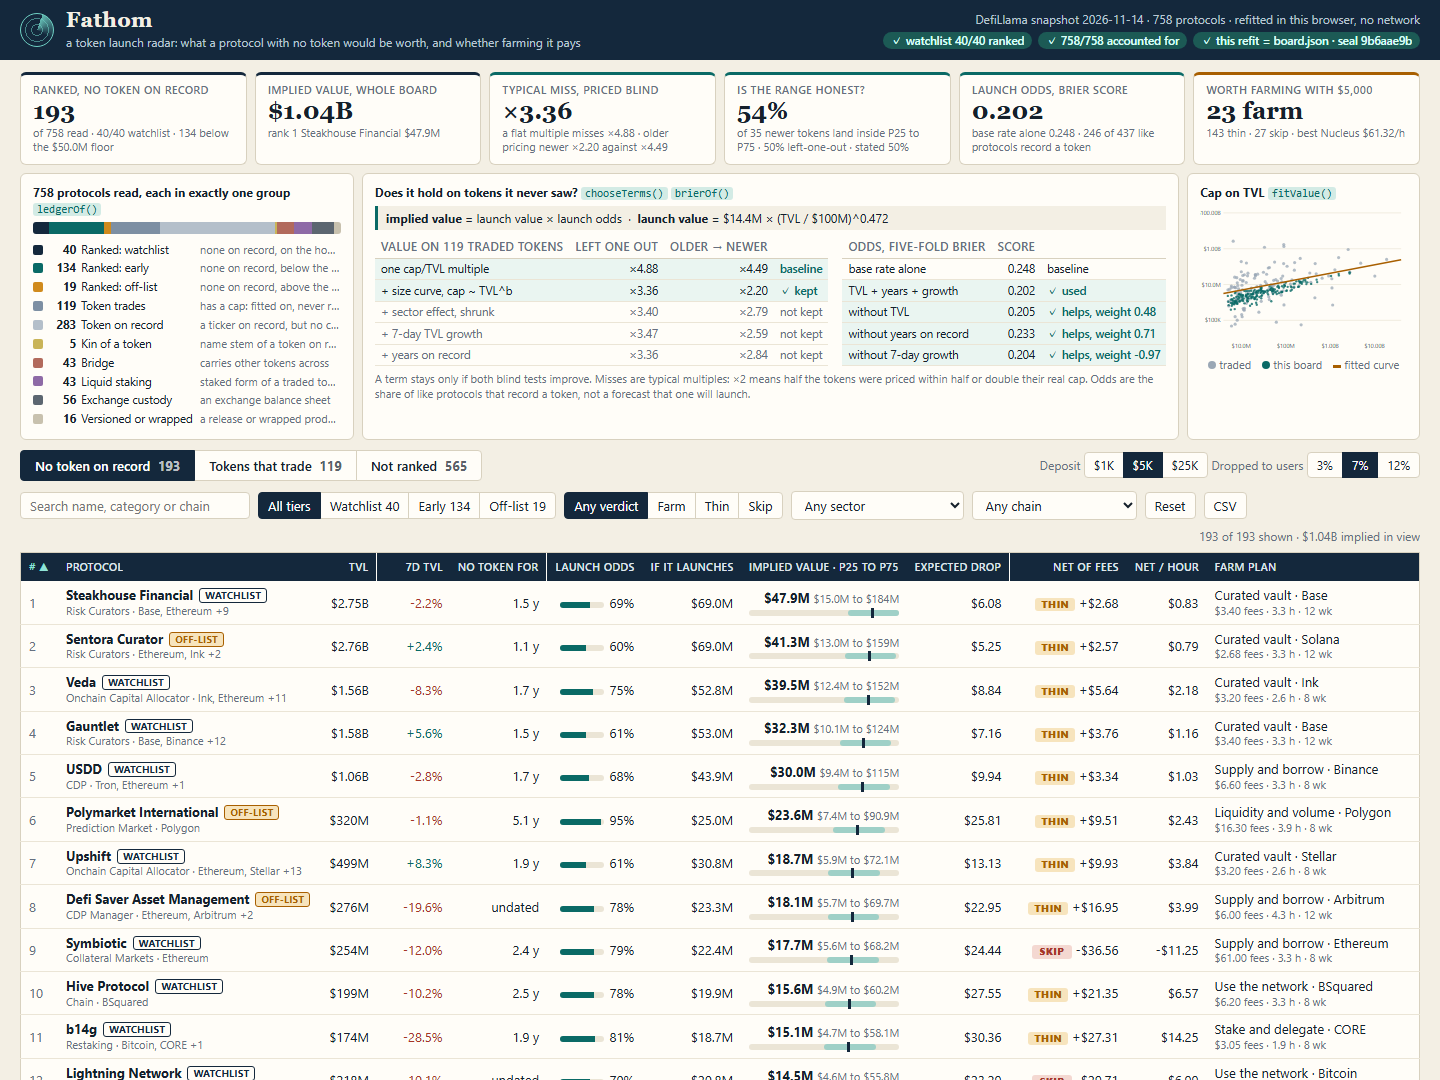
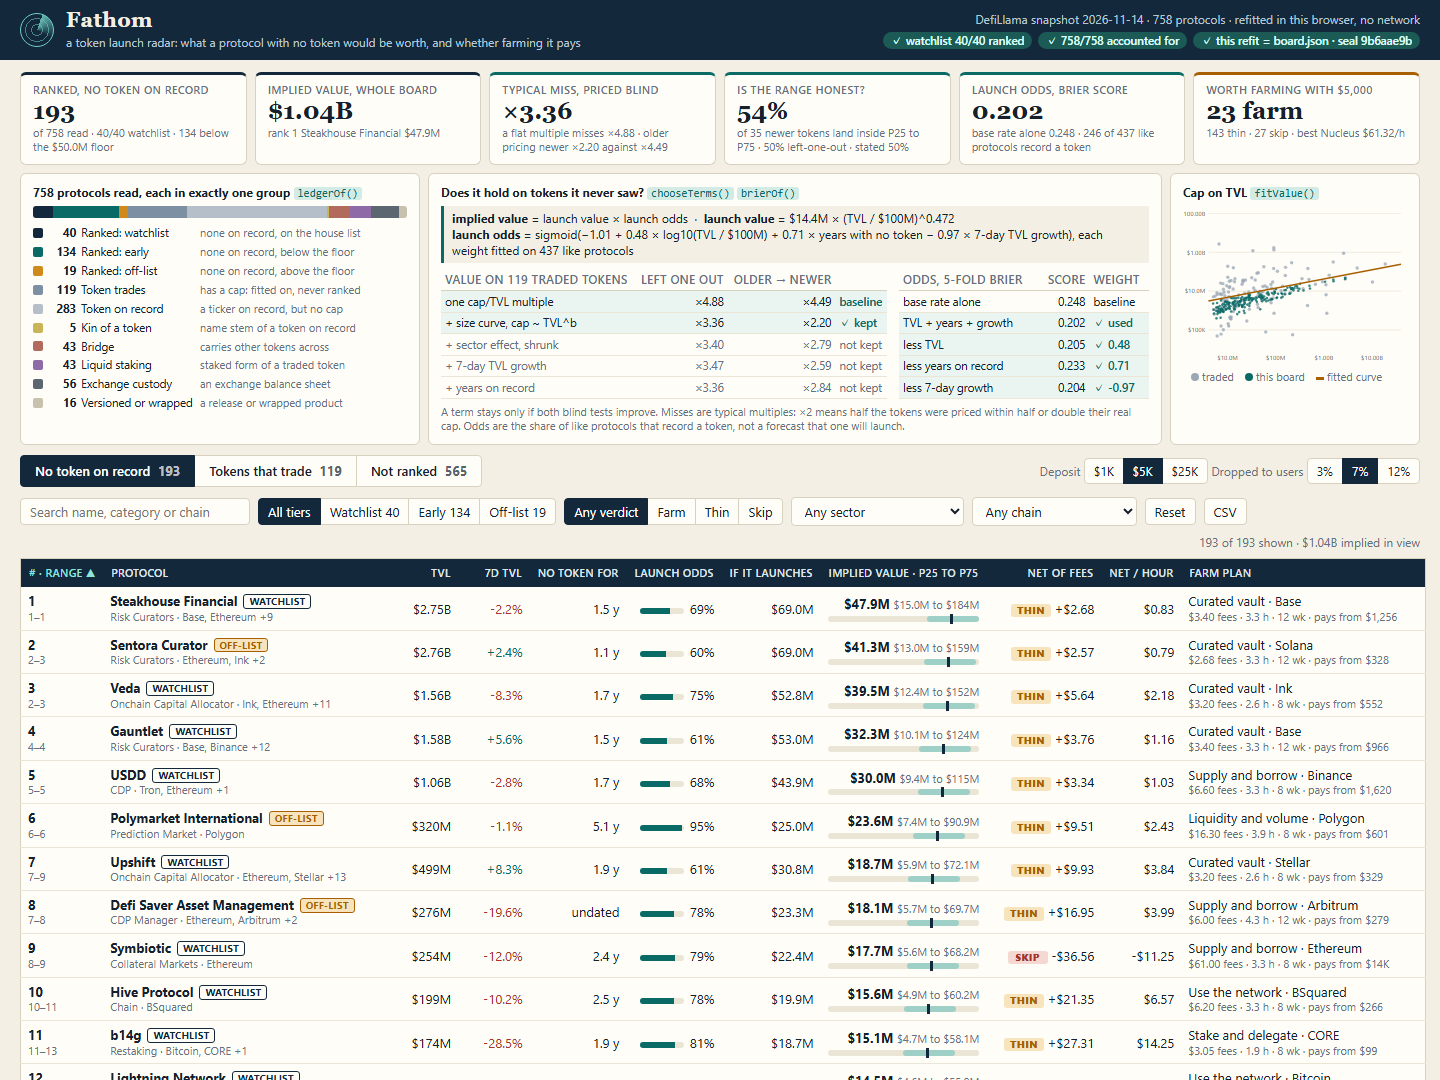
Rank ranges from 200 refits, the odds formula on the board, break-even deposit on every row

Changed region(s): [[0.0, 0.1528, 1.0, 1.0]]

diff --git a/dashboard/app.js b/dashboard/app.js
@@ -62,7 +62,7 @@
 
   var TABLES = {
     pre: { sort: 'rank', dir: 1, cols: [
-      ['rank', '#', function (r) { return r.rank; }, function (r) { return r.rank; }, 'text'],
+      ['rank', '# · range', function (r) { return r.rank; }, function (r) { return '<b>' + r.rank + '</b><small>' + r.rank_lo + '–' + r.rank_hi + '</small>'; }, 'text'],
       ['name', 'Protocol', function (r) { return r.name.toLowerCase(); }, nameCell, 'text'],
       ['tvl', 'TVL', function (r) { return r.tvl_usd; }, function (r) { return usd(r.tvl_usd); }],
       ['d7', '7d TVL', function (r) { return r.change_7d == null ? -1e9 : r.change_7d; }, function (r) { return '<span class="' + (r.change_7d < 0 ? 'neg' : 'pos') + '">' + pct(r.change_7d) + '</span>'; }],
@@ -70,10 +70,10 @@
       ['odds', 'Launch odds', function (r) { return r.odds; }, function (r) { return '<span class="meter"><i style="width:' + share(r.odds) + '"></i></span>' + share(r.odds); }],
       ['launch', 'If it launches', function (r) { return r.launch_usd; }, function (r) { return usd(r.launch_usd); }],
       ['implied', 'Implied value · P25 to P75', function (r) { return r.implied_value_usd; }, rangeCell],
-      ['drop', 'Expected drop', function (r) { return F[r.slug].drop; }, function (r) { return usd2(F[r.slug].drop); }],
       ['net', 'Net of fees', function (r) { return F[r.slug].net; }, function (r) { return verdictPill(F[r.slug].verdict) + ' ' + signed(F[r.slug].net); }],
       ['hour', 'Net / hour', function (r) { return F[r.slug].perHour; }, function (r) { return usd2(F[r.slug].perHour); }],
-      ['plan', 'Farm plan', function (r) { return F[r.slug].play; }, function (r) { var f = F[r.slug]; return esc(f.play + ' · ' + f.chain) + '<small>' + usd2(f.fees) + ' fees · ' + f.hours.toFixed(1) + ' h · ' + f.weeks + ' wk</small>'; }, 'text']
+      ['plan', 'Farm plan', function (r) { return F[r.slug].play; }, function (r) { var f = F[r.slug]; return esc(f.play + ' · ' + f.chain) + '<small>' + usd2(f.fees) + ' fees · ' + f.hours.toFixed(1) + ' h · ' + f.weeks + ' wk · ' + (f.even ? 'pays from ' + usd(f.even) : 'never pays') + '</small>'; }, 'text']
+      // "pays from": the deposit at which the expected drop first covers the plan's fees
     ] },
     comps: { sort: 'cap', dir: -1, cols: [
       ['name', 'Traded token', function (c) { return c.name.toLowerCase(); }, function (c) { return '<b>' + esc(c.name) + '</b><span class="tag">' + esc(c.symbol || c.id) + '</span><small>' + esc(c.category || '') + ' · ' + c.members + (c.members > 1 ? ' protocols summed' : ' protocol') + '</small>'; }, 'text'],
@@ -151,7 +151,8 @@
     if (t.growth) s += ' × 10^(' + b[i++].toFixed(2) + ' × 7d growth)';
     if (t.age) s += ' × 10^(' + b[i++].toFixed(2) + ' × years)';
     if (t.sector) s += ' × sector';
-    return s;
+    var w = model.odds.w.map(function (x) { return (x < 0 ? '− ' : '+ ') + Math.abs(x).toFixed(2); });
+    return s + '<br><b>launch odds</b> = sigmoid(' + w[0].replace(' ', '') + ' ' + w[1] + ' × log10(TVL / $100M) ' + w[2] + ' × years with no token ' + w[3] + ' × 7-day TVL growth), each weight fitted on ' + model.odds.peers + ' like protocols';
   }
 
   function evidence() {
@@ -159,12 +160,12 @@
       return '<tr class="' + (s.kept ? 'kept' : 'cut') + '"><td>' + s.label + '</td><td class="n">' + times(s.loo) + '</td><td class="n">' + times(s.wf) + '</td><td>' + (s.kept ? (s.key === 'flat' ? 'baseline' : '✓ kept') : 'not kept') + '</td></tr>';
     }).join('');
     var o = model.odds, terms = o.terms.slice(1).map(function (t) {
-      return '<tr class="' + (t.without > o.brier ? 'kept' : 'cut') + '"><td>without ' + t.label + '</td><td class="n">' + t.without.toFixed(3) + '</td><td>' + (t.without > o.brier ? '✓ helps' : 'no help') + ', weight ' + t.w.toFixed(2) + '</td></tr>';
+      return '<tr class="' + (t.without > o.brier ? 'kept' : 'cut') + '"><td>less ' + t.label + '</td><td class="n">' + t.without.toFixed(3) + '</td><td>' + (t.without > o.brier ? '✓ ' : 'no help ') + t.w.toFixed(2) + '</td></tr>';
     }).join('');
     return '<section class="card proof"><h2>Does it hold on tokens it never saw? <code>chooseTerms()</code> <code>brierOf()</code></h2>' +
       '<p class="eq"><b>implied value</b> = launch value × launch odds &nbsp;·&nbsp; <b>launch value</b> = ' + formula() + '</p><div class="two">' +
       '<table><thead><tr><th>Value on ' + model.comps.length + ' traded tokens</th><th class="n">left one out</th><th class="n">older → newer</th><th></th></tr></thead><tbody>' + steps + '</tbody></table>' +
-      '<table><thead><tr><th>Odds, five-fold Brier</th><th class="n">score</th><th></th></tr></thead><tbody>' +
+      '<table><thead><tr><th>Odds, 5-fold Brier</th><th class="n">score</th><th>weight</th></tr></thead><tbody>' +
       '<tr><td>base rate alone</td><td class="n">' + o.base.toFixed(3) + '</td><td>baseline</td></tr><tr class="kept"><td>TVL + years + growth</td><td class="n">' + o.brier.toFixed(3) + '</td><td>✓ used</td></tr>' + terms + '</tbody></table></div>' +
       '<p class="note">A term stays only if both blind tests improve. Misses are typical multiples: ×2 means half the tokens were priced within half or double their real cap. Odds are the share of like protocols that record a token, not a forecast that one will launch.</p></section>';
   }
@@ -224,7 +225,7 @@
     out.push(['· ' + usd(r.tvl_usd) + ' of TVL, weight ' + w[1].toFixed(2) + ' per tenfold', add(w[1] * (r.lt - 8))]);
     out.push(['· 7-day TVL growth of ' + pct(r.change_7d) + ', weight ' + w[3].toFixed(2), add(w[3] * r.g * 8)]);
     out.push(['Launch odds = sigmoid(' + w[0].toFixed(2) + ' + the three lines above)', '× ' + share(r.odds)]);
-    out.push(['= implied value, rank ' + r.rank + ' of ' + model.rows.length, usd(r.implied_value_usd)]);
+    out.push(['= implied value, rank ' + r.rank + ' of ' + model.rows.length + ' (' + r.rank_lo + ' to ' + r.rank_hi + ' over 200 refits)', usd(r.implied_value_usd)]);
     return out.map(function (x) { return '<tr class="' + (x[0].charAt(0) === '=' ? 'sum' : '') + '"><td>' + esc(x[0]) + '</td><td class="n">' + x[1] + '</td></tr>'; }).join('');
   }
 
@@ -248,7 +249,7 @@
       '<h2>What the market pays at this size</h2><table><thead><tr><th>Nearest traded tokens by TVL</th><th class="n">TVL</th><th class="n">Real cap</th><th class="n">Cap / TVL</th></tr></thead><tbody>' +
       near.map(function (c) { return '<tr><td>' + esc(c.name) + ' <small class="in">' + esc(c.symbol || '') + '</small></td><td class="n">' + usd(c.tvl) + '</td><td class="n">' + usd(c.cap) + '</td><td class="n">' + (c.cap / c.tvl).toFixed(3) + '</td></tr>'; }).join('') + '</tbody></table>' +
       '<h2>Does the size of the deposit change the answer? <code>farmOf()</code></h2><table><thead><tr><th>Deposit</th><th class="n">Drop</th><th class="n">Fees</th><th class="n">Net</th><th class="n">Per hour</th><th></th></tr></thead><tbody>' + sizes + '</tbody></table>' +
-      '<p class="note">Drop = implied value × ' + state.share + '% to users × your share of TVL. ' + (f.even ? 'Fees are covered from a deposit of about ' + usd(f.even) + '.' : 'No deposit covers the entry cost at this drop.') + ' FARM means the net beats $' + M.PARAMS.wage + ' an hour.</p></section>' +
+      '<p class="note">Drop = implied value × ' + state.share + '% to users × your share of TVL. ' + (f.even ? 'Fees are covered from a deposit of about ' + usd(f.even) + '.' : 'No deposit covers the entry cost at this drop.') + ' FARM means the net beats $' + M.PARAMS.wage + ' an hour. The position\'s own yield and the T-bill it gives up are taken to cancel: the snapshot records neither.</p></section>' +
       '<section><h2>Farm plan: ' + esc(f.play) + ' on ' + esc(f.chain) + '</h2><table class="plan"><thead><tr><th class="n">#</th><th>Step</th><th>Cost</th><th>Time</th></tr></thead><tbody>' + steps +
       '<tr class="sum"><td></td><td>All seven steps on ' + usd(f.deposit) + '</td><td>' + usd2(f.fees) + '</td><td>' + f.hours.toFixed(1) + ' h in ' + f.weeks + ' wk</td></tr></tbody></table>' +
       '<p class="note">Gas is a planning figure of ' + usd2(f.gas) + ' a transaction on ' + esc(f.chain) + ', the cheapest of its three largest chains. The snapshot records no token for ' + esc(r.name) + '; it does not say none exists or will.</p></section></div>';

diff --git a/dashboard/app.css b/dashboard/app.css
@@ -37,8 +37,8 @@ code { font: 11px Consolas, "SF Mono", monospace; color: var(--sea); background:
 .kpi h3, .stats h3 { font-size: 10.5px; text-transform: uppercase; letter-spacing: .6px; color: var(--mute); font-weight: 600; }
 .kpi strong, .stats strong { display: block; font: 700 24px/1.2 Georgia, "Times New Roman", serif; }
 .kpi p, .stats p { font-size: 11px; color: var(--mute); line-height: 1.3; }
-.evidence { display: grid; grid-template-columns: 33fr 44fr 23fr; gap: 8px; padding: 8px 20px 0; }
-.card { padding: 10px 12px; }
+.evidence { display: grid; grid-template-columns: 400px 1fr 250px; gap: 8px; padding: 8px 20px 0; }
+.card { padding: 10px 12px; min-width: 0; }
 .card h2, #detail h2 { font-size: 12px; font-weight: 700; margin-bottom: 6px; }
 .note { font-size: 11px; color: var(--mute); margin-top: 6px; }
 .eq { font-size: 12px; background: var(--paper); border-left: 3px solid var(--sea); padding: 4px 8px; margin-bottom: 6px; }
@@ -55,7 +55,8 @@ code { font: 11px Consolas, "SF Mono", monospace; color: var(--sea); background:
 table { border-collapse: collapse; width: 100%; }
 th { font-size: 10.5px; text-transform: uppercase; letter-spacing: .5px; color: var(--mute); font-weight: 600; text-align: left; padding: 3px 6px; border-bottom: 1px solid var(--line); white-space: nowrap; }
 td { padding: 2.5px 6px; border-bottom: 1px solid var(--rule); vertical-align: middle; }
-.two { display: grid; grid-template-columns: 54fr 46fr; gap: 14px; }
+.two { display: grid; grid-template-columns: 1fr 250px; gap: 12px; }
+.two td, .two th { padding-left: 4px; padding-right: 4px; }
 .two td { white-space: nowrap; }
 .proof td, .proof th { font-size: 11.5px; }
 tr.kept td { background: #eaf5f1; } tr.kept td:last-child { color: var(--sea); font-weight: 600; }
@@ -90,7 +91,8 @@ input { width: 230px; }
 #table th { position: sticky; top: 0; background: var(--navy); color: #dfe6ec; padding: 7px 8px; cursor: pointer; border: 0; }
 #table th.on { color: #8fe3d7; }
 #table td { padding: 5px 8px; }
-#table td.text:first-child { color: var(--mute); width: 34px; }
+#table td.text:first-child { width: 54px; }
+#table td { white-space: nowrap; padding: 5px 7px; }
 #table tbody tr:hover td { background: #f6f1e2; }
 table.pre tbody tr { cursor: pointer; }
 td.none { text-align: center; padding: 28px; color: var(--mute); }
@@ -100,7 +102,7 @@ td b { font-weight: 650; }
 .tag.offlist { color: var(--amber); border-color: var(--amber); background: var(--amber-soft); }
 .meter { display: inline-block; width: 44px; height: 6px; background: var(--rule); border-radius: 3px; margin-right: 6px; overflow: hidden; }
 .meter i { display: block; height: 100%; background: var(--sea); }
-.rng { display: block; position: relative; height: 6px; margin-top: 3px; background: var(--rule); border-radius: 3px; min-width: 150px; }
+.rng { display: block; position: relative; height: 6px; margin-top: 3px; background: var(--rule); border-radius: 3px; min-width: 120px; }
 .rng i { position: absolute; top: 0; height: 100%; background: #9fd0c7; border-radius: 3px; }
 .rng u { position: absolute; top: -2px; width: 3px; height: 10px; background: var(--navy); margin-left: -1px; }
 .v { display: inline-block; min-width: 40px; text-align: center; padding: 0 6px; border-radius: 3px; font-size: 10px; font-weight: 800; letter-spacing: .5px; }

diff --git a/dashboard/model.js b/dashboard/model.js
@@ -381,6 +381,16 @@
     }).sort(function (a, b) { return b.implied_value_usd - a.implied_value_usd || (a.slug < b.slug ? -1 : 1); });
     rows.forEach(function (r, i) { r.rank = i + 1; });
 
+    // How firm is a rank? Refit the curve 200 times on resampled tokens (a fixed seed, so both runs
+    // agree) and keep each row's 5th to 95th percentile rank.
+    var seed = 20261114, seen = rows.map(function () { return []; });
+    for (var k = 0; k < 200; k++) {
+      var refit = fitValue(comps.map(function () { seed = (Math.imul(seed, 1103515245) + 12345) >>> 0; return comps[(seed >>> 8) % comps.length]; }), choice.terms);
+      var v = rows.map(function (r) { return valueAt(refit, r) + Math.log10(r.odds); });
+      v.forEach(function (x, i) { seen[i].push(1 + v.filter(function (y) { return y > x; }).length); });
+    }
+    rows.forEach(function (r, i) { r.rank_lo = Math.round(quant(seen[i], 0.05)); r.rank_hi = Math.round(quant(seen[i], 0.95)); });
+
     return {
       as_of: snap.as_of, source: snap.source, floor_usd: snap.floor_usd, total: P.length, watchlist: snap.watchlist.length,
       counts: counts, items: items, comps: comps, fit: fit, steps: choice.steps, band: band,
@@ -396,7 +406,7 @@
       var farm = farmOf(r, q);
       return {
         rank: r.rank, slug: r.slug, name: r.name, implied_value_usd: r.implied_value_usd, farm_steps: farm.steps.map(stepText),
-        token_status: 'no token on record', tier: r.tier, category: r.category, sector: r.sector, chains: r.chains,
+        token_status: 'no token on record', rank_range: [r.rank_lo, r.rank_hi], tier: r.tier, category: r.category, sector: r.sector, chains: r.chains,
         tvl_usd: r.tvl_usd, change_7d: r.change_7d, listed_at: r.listed_at, no_token_days: r.age_days,
         launch_value_usd: r.launch_usd, launch_odds: Math.round(r.odds * 1e4) / 1e4, low_usd: r.low_usd, high_usd: r.high_usd,
         farm: { play: farm.play, chain: farm.chain, deposit_usd: farm.deposit, weeks: farm.weeks, fees_usd: Math.round(farm.fees * 100) / 100, hours: Math.round(farm.hours * 10) / 10, expected_drop_usd: Math.round(farm.drop * 100) / 100, net_usd: Math.round(farm.net * 100) / 100, verdict: farm.verdict }
@@ -405,8 +415,8 @@
   }
 
   var api = {
-    PARAMS: PARAMS, GROUPS: GROUPS, SECTORS: SECTORS, RANKED: RANKED, PLAYS: PLAYS, build: build, boardRows: boardRows, farmOf: farmOf,
-    sealOf: sealOf, sectorName: sectorName, gasOf: gasOf, usd: usd, usd2: usd2, ageText: ageText, stepText: stepText, valueAt: valueAt, median: median
+    PARAMS: PARAMS, GROUPS: GROUPS, RANKED: RANKED, build: build, boardRows: boardRows, farmOf: farmOf,
+    sectorName: sectorName, usd: usd, usd2: usd2, valueAt: valueAt
   };
   if (typeof module === 'object' && module.exports) module.exports = api;
   else root.RadarModel = api;
